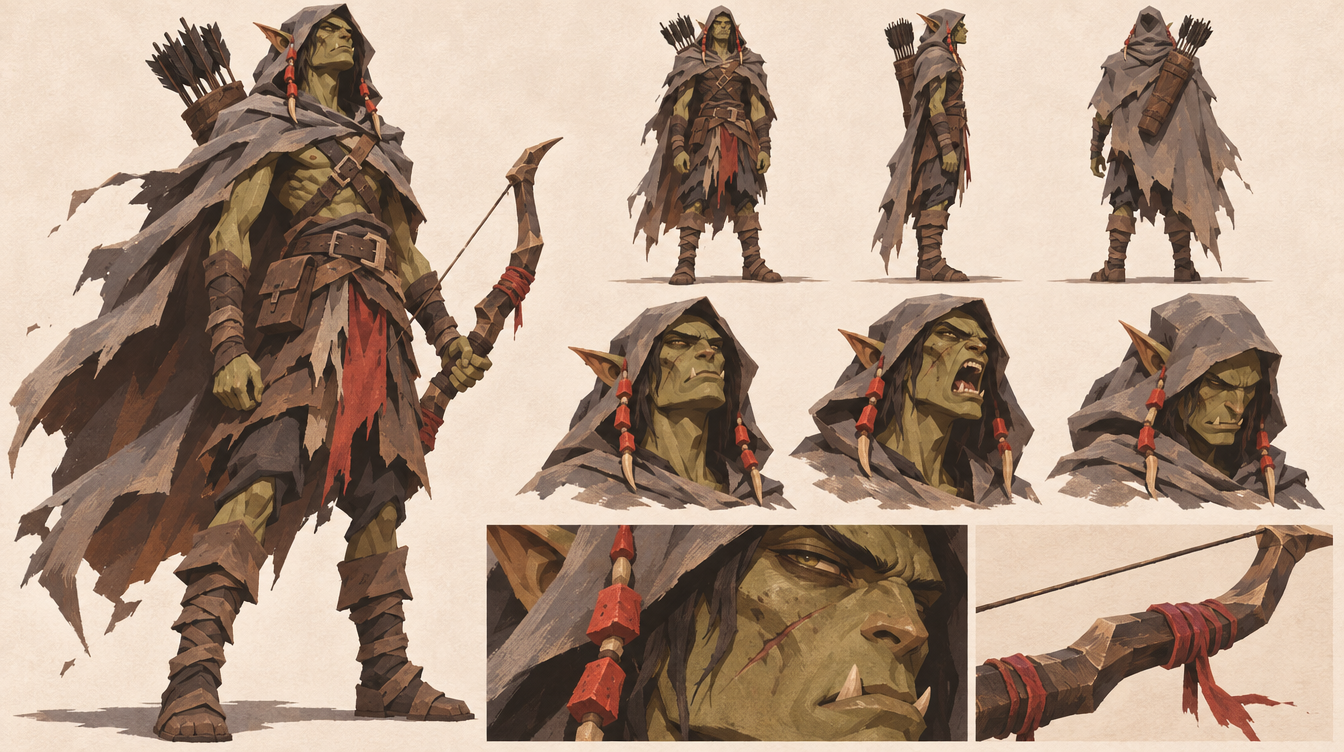
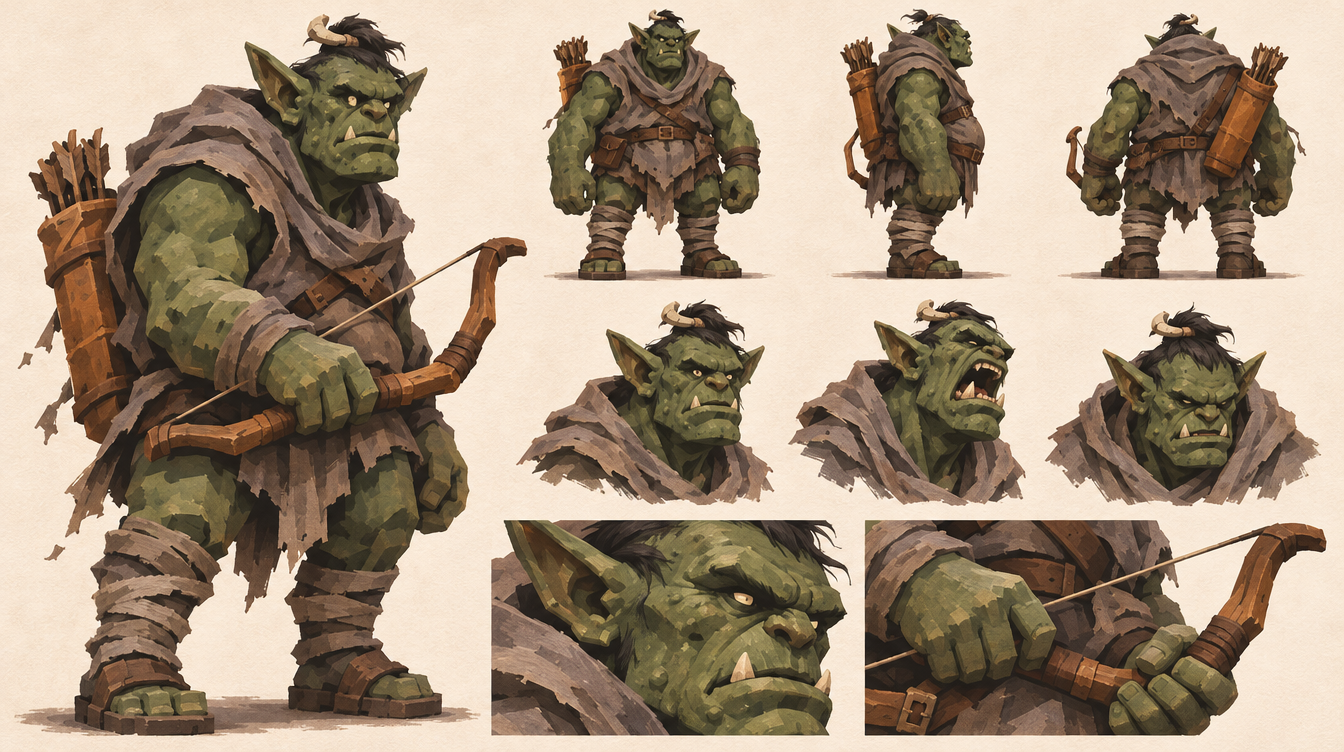
Character sheet: giáp lá + đoản kiếm cho phe người, Orc vóc to lớn thô kệch; cập nhật prompt
Claude-Session: https://claude.ai/code/session_01JLSNBEZAQYaaf5bHkUdgrp

diff --git a/docs/art/character-sheets.md b/docs/art/character-sheets.md
@@ -57,6 +57,13 @@ Cho **sinh vật / quân cưỡi** (kỵ binh, kỵ lợn rừng, xác ngựa): 
 
 ### Phe người
 
+**Trang bị chung của phe người** (ghép ngay sau khối nhân vật của mọi quân người có giáp; mày chốt):
+```
+the grey armor is steel lamellar made of small vertical rectangular plates laced together in staggered horizontal rows with visible lacing between rows, a short straight double-edged sword like a dirk worn at the left hip: tapering steel blade, brass ferrule and brass pommel cap, dark brown hardwood grip that swells in the middle, in a dark brown leather scabbard with a band of round brass studs,
+```
+Với dân quân, cung thủ, bộ binh: thay chữ "grey padded armored vest" / "grey lamellar armor" bằng giáp lá như trên. Kỵ binh và thủy binh không mặc giáp xám nhưng vẫn đeo đoản kiếm.
+
+
 **Dân quân** (`human_militia.png`)
 ```
 a medieval East Asian militia spearman, clean-shaven, black cloth cap, grey padded armored vest with tan trim and a black belt over dark long sleeves, long brown cotton robe, black boots, holding a long wooden spear with an iron blade diagonally across the body, accent color: tan trim,
@@ -84,9 +91,15 @@ a medieval East Asian river boatman soldier, clean-shaven, hair in a top bun wit
 
 ### Phe Orc
 
+**Vóc dáng chung của Orc** (ghép vào mọi khối Orc, kể cả âm binh gốc Orc; mày chốt): to lớn, thô kệch hơn người rõ rệt:
+```
+a big crude brutish orc body: hulking and heavy, much larger and bulkier than a human, thick neck, massive hunched shoulders, barrel chest and pot belly, long heavy arms with huge hands and thick fingers, short thick legs, coarse lumpy green skin, heavy jaw and brow, crude rough-hewn proportions, not lean, not slender, not athletic,
+```
+
+
 **Orc phỉ** (`orc_militia.png`)
 ```
-a green-skinned orc raider with small tusks, plain iron skullcap helmet, single grey iron shoulder pauldron, brown leather tunic with straps, cloth-wrapped legs and arms, round wooden shield with an iron boss, long spear with a broad iron blade, lean build, accent color: iron grey,
+a green-skinned orc raider with small tusks, plain iron skullcap helmet, single grey iron shoulder pauldron, brown leather tunic with straps, cloth-wrapped legs and arms, round wooden shield with an iron boss, long spear with a broad iron blade, accent color: iron grey,
 ```
 
 **Orc chiến binh** (`orc_infantry.png`)
@@ -96,7 +109,7 @@ a huge hulking green-skinned orc brute with big lower tusks, spiked grey iron sh
 
 **Orc cung thủ** (`orc_archer.png`)
 ```
-a lean green-skinned orc archer with a long ear and small tusks, grey cloth hood and wrapped grey tunic, leather straps across the chest, orange-brown leather quiver on the back, short wooden bow, cloth-wrapped legs, accent color: orange-brown quiver,
+a green-skinned orc archer with a long ear and small tusks, grey cloth hood and wrapped grey tunic, leather straps across the chest, orange-brown leather quiver on the back, short wooden bow, cloth-wrapped legs, accent color: orange-brown quiver,
 ```
 
 **Kỵ lợn rừng** (`orc_cavalry.png`)
@@ -106,7 +119,7 @@ an orc rider with a horned dark iron helmet, round shield painted red with a whi
 
 **Goblin** (`orc_goblin.png`)
 ```
-a small crouching forest goblin with bright green skin and big pointed ears, hood and cloak covered in leaves and moss, brown leather belt and pouch, holding a curved dagger and a small hand axe, wiry build, accent color: leaf green,
+a small crouching forest goblin with bright green skin and big pointed ears, hood and cloak covered in leaves and moss, brown leather belt and pouch, holding a curved dagger and a small hand axe, wiry build (goblins stay small and wiry, the orc bulk rule does not apply), accent color: leaf green,
 ```
 
 ### Âm binh (màu nhấn: lửa ma xanh lục nhạt trong hốc mắt)
@@ -127,7 +140,8 @@ an eerie East Asian dark-taoist necromancer commander, tall gaunt figure in a lo
 
 ## Ví dụ đã chạy và đạt: Cung thủ người (kèm sprite `human_archer.png`)
 
-Kết quả: `docs/art/sheets/archer_human.png`, bản âm binh: `docs/art/sheets/archer_undead.png`.
+Kết quả: `docs/art/sheets/archer_human.png` (đã có giáp lá + đoản kiếm), bản âm binh: `docs/art/sheets/archer_undead.png` (chạy trước khi thêm giáp lá + đoản kiếm, cần chạy lại), cung thủ Orc vóc to thô: `docs/art/sheets/archer_orc.png`.
+Prompt bản cuối của cung thủ người thêm khối "Trang bị chung của phe người" vào ngay sau phần mô tả áo.
 
 ```
 Character model sheet of the archer shown in the reference pixel sprite, redrawn faithfully in a new painterly style: keep EXACTLY his costume, colors and silhouette from the reference and add nothing foreign. One large heroic full-body view on the left, a row of three smaller full-body views on the right showing front, side profile and back, three head-and-shoulders expression studies (neutral, battle cry, grim) and one close-up of the face and weapon detail, identical original character in every view, single character only, off-white paper background with a soft ground shadow under the feet, professional character sheet presentation. Character: a medieval East Asian foot archer in his thirties, clean-shaven face, short black hair, a plain brown cloth cylindrical cap (not fur, no brim, no ear flaps), a grey padded armored vest with dark moss-green trim edges and a black belt, worn over a long brown cotton robe with long sleeves, plain black boots, a simple long wooden self bow with a dark red-brown stave, a yellow-ochre leather quiver of arrows at the hip, athletic build. Stylized painterly 2D concept art, flat color blocks with visible dry gouache brush texture, shape-driven rendering with almost no outlines, hard-edged cel shadows in two to three values with warm bounce color, limited palette of brown, grey and moss green with a yellow-ochre accent, big simple cloth folds, mature angular face, strong readable silhouette, even neutral studio lighting, high-end game cinematic character art, sharp. Original character, not Mongolian, not nomadic, no fur hat, no mustache, no recurve horn bow, no text, no labels, no watermark, no logos, no frame borders, no background scenery, no extra characters, no babyface, no distorted hands, no extra fingers
